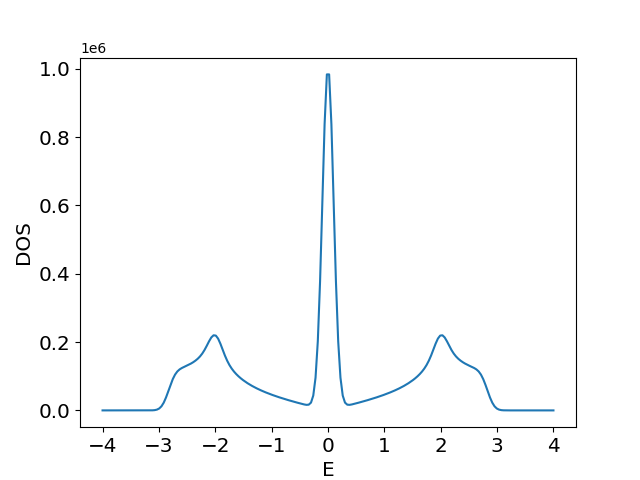
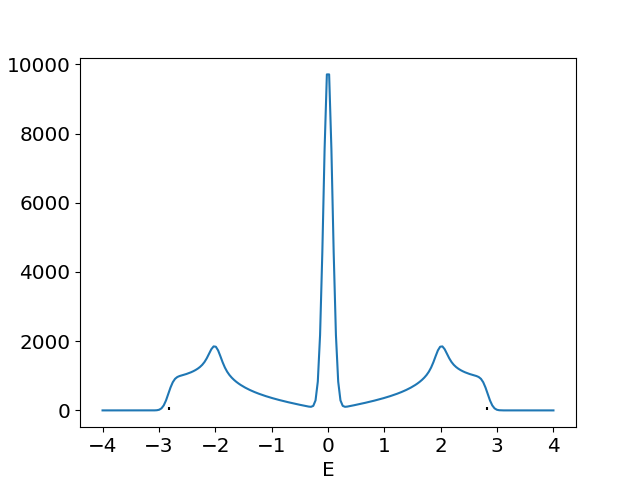
implementation of classes and methods

diff --git a/model.py b/model.py
@@ -7,29 +7,82 @@ class Model:
         self.mu = kwargs.get('mu', 0.0) # Chemical potential
 
         self.Hk = self.Hamiltonian()
+        
 
     def Hamiltonian(self):
         """Construct the k-space Hamiltonian function."""
-
-        H = np.empty((2, 2), dtype=object)  # Placeholder for Hamiltonian matrix
+        
+        H = np.zeros((3, 3), dtype=object)  # Placeholder for Hamiltonian matrix
 
         # Initialize the Hamiltonian matrix with zero functions
         for index, _ in np.ndenumerate(H): H[index] = lambda kx, ky: 0
 
         # Modify the Hamiltonian matrix with specific functions
         # Example: Dirac Hamiltonian for a 2D system
-        H[0,1] = lambda kx, ky: self.t * (kx + 1j*ky) # Some function of kx, ky
-        H[1,0] = lambda kx, ky: self.t * (kx - 1j*ky)
-        H[0,0] = lambda kx, ky: -self.mu
-        H[1,1] = lambda kx, ky: -self.mu
-
+        H[0,1] = lambda kx, ky: -2*self.t * np.cos(kx/2) # Some function of kx, ky
+        H[1,0] = lambda kx, ky: -2*self.t * np.cos(kx/2)
+        H[1,2] = lambda kx, ky: -2*self.t * np.cos(ky/2)
+        H[2,1] = lambda kx, ky: -2*self.t * np.cos(ky/2)
+        
         def Hk(kx, ky): 
             """Evaluate the Hamiltonian at given kx, ky."""
             hk = np.empty_like(H, dtype=complex)
+            eps = 1e-15
             for index in np.ndindex(H.shape): hk[index] = H[index](kx, ky)
+            hk[np.abs(hk) < eps] = 0
+
             return hk
         
         return Hk
+    
+    def solvHam(self, kx, ky):
+        '''
+        solves hamiltonian for each pair of coordinates
+        '''
+        eps = 1e-15
+        n = np.shape(kx)[0]
+        eig = np.zeros((n, 3))
+    
+        for i in range(n):
+            e = np.linalg.eig(self.Hk(kx[i], ky[i]))[0]
+            e[np.abs(e)<eps]=0
+            eig[i]=np.sort(e)
+            
+        return eig.T
+    
+    def Es(self, k):
+        E=np.array([[],[],[]])
+        l = np.shape(k)[0]
+        for i in k:
+            Erow = self.solvHam(i*np.ones(l), k)
+            E = np.concatenate((E, Erow), axis=1)
+        return E
+    
+    def DOS(self, E, k, sig=5e-2):
+        ''' 
+        returns an array with the density of state values to each E
+
+        E is an array (against which DOS is plotted)
+        En is an array with the E-values for all k grid points of shape (3, ???) because we currently have 3 bands
+        sigma is the width of the gauss function
+        '''
+        def Gauss(E, En, sig):
+            return np.exp(-(E-En)**2/(2*sig**2))
+
+        En = self.Es(k)
+        b, l = np.shape(En)
+        s1 = 0
+        res = np.ones(np.shape(E)[0])
+        c=0
+        for j in E:
+            for i in range(b):
+                s1 += np.sum(Gauss(j*np.ones(l),En[i], sig))
+            res[c] = s1
+            s1=0
+            c+=1
+        return res
+    
+
 
 
     # Some stuff for later
